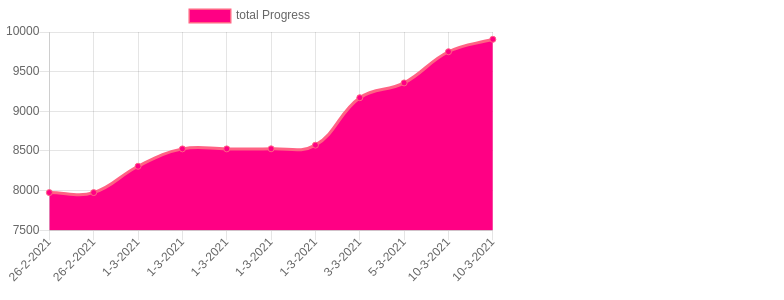
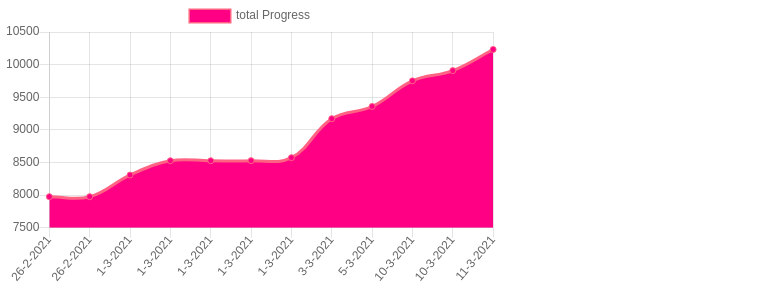
324: java reflexion, hashcode, generics, objects mutations, stringbuilder, documentation.

diff --git a/total.html b/total.html
@@ -9,7 +9,7 @@
         <script src="https://cdn.jsdelivr.net/npm/chart.js@2.8.0"></script>
         <script>
           var ctx = document.getElementById("total").getContext("2d");
-          const goLabelsDates = ["2021-02-27T01:37:43.112Z","2021-02-27T01:38:01.628Z","2021-03-01T13:41:18.753Z","2021-03-01T14:53:41.991Z","2021-03-01T15:08:00.851Z","2021-03-01T15:09:10.635Z","2021-03-01T15:22:55.385Z","2021-03-03T15:31:41.151Z","2021-03-05T14:02:13.446Z","2021-03-10T14:50:13.297Z","2021-03-11T01:54:03.424Z",];
+          const goLabelsDates = ["2021-02-27T01:37:43.112Z","2021-02-27T01:38:01.628Z","2021-03-01T13:41:18.753Z","2021-03-01T14:53:41.991Z","2021-03-01T15:08:00.851Z","2021-03-01T15:09:10.635Z","2021-03-01T15:22:55.385Z","2021-03-03T15:31:41.151Z","2021-03-05T14:02:13.446Z","2021-03-10T14:50:13.297Z","2021-03-11T01:54:03.424Z","2021-03-11T15:32:47.647Z",];
           var chart = new Chart(ctx, {
             type: 'line',
             data: {
@@ -18,7 +18,7 @@
                 label: 'total Progress',
                 backgroundColor: 'rgb(255, 0, 132)',
                 borderColor: 'rgb(255, 99, 132)',
-                data: [7975,7975,8307,8526,8526,8527,8573,9171,9358,9751,9908,]
+                data: [7975,7975,8307,8526,8526,8527,8573,9171,9358,9751,9908,10232,]
               }]
             },
           });

diff --git a/java.html b/java.html
@@ -9,7 +9,7 @@
         <script src="https://cdn.jsdelivr.net/npm/chart.js@2.8.0"></script>
         <script>
           var ctx = document.getElementById("java").getContext("2d");
-          const goLabelsDates = ["2021-02-27T01:37:43.111Z","2021-02-27T01:38:01.627Z","2021-03-05T14:02:13.445Z",];
+          const goLabelsDates = ["2021-02-27T01:37:43.111Z","2021-02-27T01:38:01.627Z","2021-03-05T14:02:13.445Z","2021-03-11T15:32:47.646Z",];
           var chart = new Chart(ctx, {
             type: 'line',
             data: {
@@ -18,7 +18,7 @@
                 label: 'java Progress',
                 backgroundColor: 'rgb(255, 0, 132)',
                 borderColor: 'rgb(255, 99, 132)',
-                data: [731,731,918,]
+                data: [731,731,918,1242,]
               }]
             },
           });

diff --git a/Readme.md b/Readme.md
@@ -5,16 +5,16 @@
 |js|1979|99|99|![js](https://raw.githubusercontent.com/kapit4n/l-10000-dev/master/js.png)|
 |python|1501|75|75|![python](https://raw.githubusercontent.com/kapit4n/l-10000-dev/master/python.png)|
 |scala|1368|68|68|![scala](https://raw.githubusercontent.com/kapit4n/l-10000-dev/master/scala.png)|
+|java|1242|62|62|![java](https://raw.githubusercontent.com/kapit4n/l-10000-dev/master/java.png)|
 |ruby|1056|53|53|![ruby](https://raw.githubusercontent.com/kapit4n/l-10000-dev/master/ruby.png)|
-|java|918|46|46|![java](https://raw.githubusercontent.com/kapit4n/l-10000-dev/master/java.png)|
 |ts|829|41|41|![ts](https://raw.githubusercontent.com/kapit4n/l-10000-dev/master/ts.png)|
 |words|47|2|2|![words](https://raw.githubusercontent.com/kapit4n/l-10000-dev/master/words.png)|
 |sql|9|0|0|![sql](https://raw.githubusercontent.com/kapit4n/l-10000-dev/master/sql.png)|
 |dotnet|0|0|0|![dotnet](https://raw.githubusercontent.com/kapit4n/l-10000-dev/master/dotnet.png)|
-|TOTAL|9908|990.800%|
+|TOTAL|10232|1023.200%|
 10/02(0)
 
-10/03(9908)
+10/03(10232)
 
 
 # run it
@@ -37,4 +37,4 @@ node ./count.js
 * Angular, React, Vue
 * Spring, Play
 * Scala, Java
-, 2021-03-11T01:54:03.424Z
+, 2021-03-11T15:32:47.647Z
